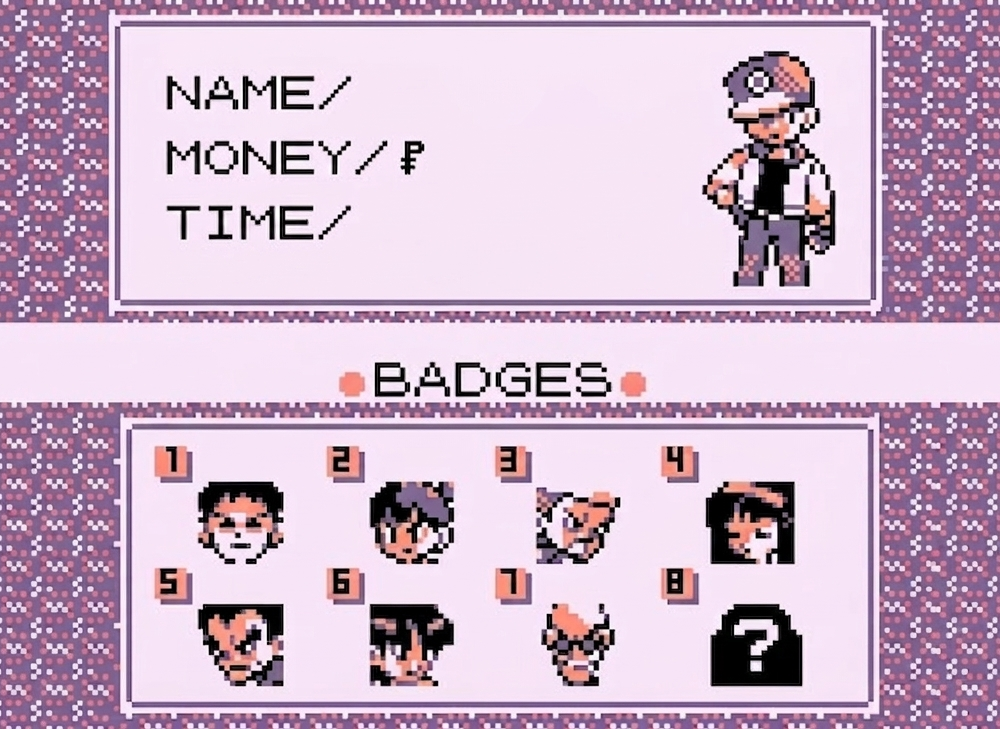
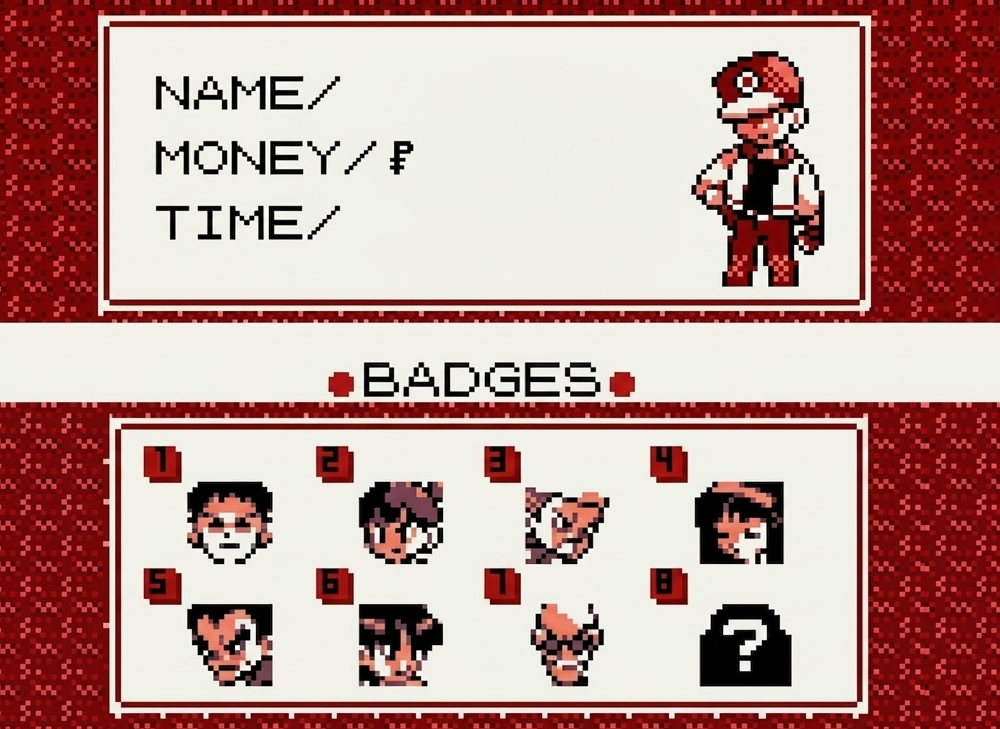
BETA 0.2
FINISHED FEATURES:

-Display Gym Badges
-Calculate Pokédex progress

diff --git a/src/save_decoder.js b/src/save_decoder.js
@@ -24,6 +24,7 @@ save.addEventListener("change", async(e) =>{
 
 //Funcao que carrega o save
 async function loadSave(event){
+    localStorage.clear();
     const saveFile = event.target.files[0];
 
     if(!saveFile){
@@ -41,25 +42,74 @@ async function loadSave(event){
     const gameTime = readSaveTime(reader, 0x2CED);
     howManyBadges(reader, 0x2602, 8);
     const badgesNum = badgesNames[9];
+    const seenPoke = countBit(reader, 0x25A3, 151);
+    const caughtPoke = countBit(reader, 0x25B6, 151);
 
     console.log(`Nome do Treinador: ${playerName}`);
     console.log(`Nome do Rival: ${rivalName}`);
     console.log(`Total de Insígnias: ${badgesNum}`);
     console.log(`Dinheiro: ${playerMoney}`);
     console.log(`Tempo: ${gameTime}`);
+    console.log(`Pokemons Vistos: ${seenPoke}`);
+    console.log(`Pokemons Capturados: ${caughtPoke}`);
 
     for(let i = 0; i < badgesNum; i++){
         console.log(`${i + 1}º Insíginia: ${badgesNames[i]}`);
     }
 
+    for(let i = 0; i < 8; i++){
+        let block = document.getElementById(`block_${i + 1}`);
+        block.style.setProperty('--hover','#B71C1C')
+        removeAnimations();
+    }
+
+    for(let i = 0; i < badgesNum; i++){
+        if(badgesNum == 8){
+            completeBadgesAnimation();
+        }
+        let block = document.getElementById(`block_${i + 1}`);
+        block.style.setProperty('--hover','#ffc60a');
+    }
+
     const trainerName = document.getElementById("trainer_name");
     const trainerMoney = document.getElementById("trainer_money");
     const trainerTime = document.getElementById("trainer_time");
+    const trainerSeenPoke = document.getElementById("seen");
+    const trainerOwnPoke = document.getElementById("own");
+    
+    /*trainerSeenPoke.toString();
+    trainerOwnPoke.toString();*/
 
     trainerName.innerHTML = `${playerName}`;
     trainerMoney.innerHTML = `${playerMoney}`;
     trainerTime.innerHTML = `${gameTime}`;
+    trainerSeenPoke.innerHTML = `${seenPoke}`;
+    trainerOwnPoke.innerHTML = `${caughtPoke}`;
 
+    //block.style.opacity = "0%";
+
+}
+
+//
+
+function completeBadgesAnimation() {
+        let card = document.getElementById("trainerCard");
+        let button = document.getElementById("saveImportLabel");
+        let dex_template = document.querySelector(".pokedex_template");
+
+        button.style.setProperty('--hover', '#ffc60a');
+        card.classList.add("show-shadow");
+        dex_template.classList.add("show-shadow");
+}
+
+function removeAnimations(){
+        let card = document.getElementById("trainerCard");
+        let button = document.getElementById("saveImportLabel");
+        let dex_template = document.querySelector(".pokedex_template");
+
+        button.style.setProperty('--hover', '#B71C1C');
+        card.classList.remove("show-shadow");
+        dex_template.classList.remove("show-shadow");
 }
 
 //Funcao que mapeia os caracteres dentro do save
@@ -166,12 +216,26 @@ function readSaveTime(reader, offset){
 
     const hours = (hoursHigh << 8) | hoursLow;
 
-    if (hours <= 9){
-        let time = `0${hours}:${minutes}:${seconds}`;
-        return time;
-    } else{
-        let time = `${hours}:${minutes}:${seconds}`;
-        return time;
-    }
+    const hour = String(hours).padStart(2, '0');
+    const minute = String(minutes).padStart(2, '0');
+    const second = String(seconds).padStart(2, '0');
+
+    let time = `${hour}:${minute}:${second}`;
+    return time;
+}
+
+
+function countBit(reader, offset, length){
+    let count = 0;
     
+    for(let i = 0; i < length; i++){
+        const byte = reader.readByte(offset + Math.floor(i / 8));
+        const bit =  i % 8;
+
+        if((byte & (1 << bit)) !== 0){
+            count++
+        }
+    }
+
+    return count;
 }

diff --git a/src/index.css b/src/index.css
@@ -7,20 +7,22 @@
     --hover: #B71C1C;
     --read-save: #A4C639;
     --text-main: #FFFFFF;
+    --victory: #ffc60a;
 }
 
 body{
     background-color: var(--bg-main);
+    
 }
 
 h1{
     font-size: 50px;
     font-family: var(--font1);
     color: var(--text-main);
+    margin-top: 20px;
 }
 
 .main_container{
-    padding: 50px;
     display: flex;
     flex-direction: column;
     align-items: center;
@@ -33,7 +35,7 @@ h1{
     align-items: center;
     font-size: 80%;
     text-align: center;
-    background-color: var(--btn-card);
+    background-color: var(--hover);
     color: whitesmoke;
     font-family: var(--font2);
     height: 100px;
@@ -60,38 +62,54 @@ h1{
 }
 
 .trainerCardTemplate{
+    position: relative;
     display: flex;
     flex-direction: column;
     align-items: center;
-    box-shadow: 0px 0px 10px 0px var(--hover);
+    box-shadow: 0px 0px 12px 0px var(--hover);
+    transition: box-shadow 1s ease;
     height: 368px;
     width: 500px;
-    
+    gap: 143px;
+}
+
+.trainerCardTemplate.show-shadow {
+    box-shadow: 0px 0px 10px 0px var(--victory);
 }
 
 .trainerCardTemplate img{
-    position: fixed;
+    position: absolute;
     z-index: -1;
     height: 368px;
     width: 500px;
 }
 
+#save_data{
+    position: relative;
+    top: 37px;
+    left: 18px;
+    display: flex;
+    flex-direction: column;
+    gap: 18px;
+}
+
 #trainer_name{
+    position: relative;
     height: 16px;
     width: 184px;
+    top: 2px;
+    left: 0px;
     font-family: var(--font2);
     color: var(--bg-main);
-    line-height: 95px;
-    text-indent: 23px;
 }
 
 #trainer_money{
+    position: relative;
     height: 16px;
     width: 184px;
     font-family: var(--font2);
     color: var(--bg-main);
-    line-height: 128px;
-    text-indent: 58px;
+    left: 42px;
 }
 
 #trainer_time{
@@ -99,6 +117,74 @@ h1{
     width: 184px;
     font-family: var(--font2);
     color: var(--bg-main);
-    line-height: 162px;
-    text-indent: 20px;
+}
+
+#badge_block{
+    width: 304px;
+    height: 120px;
+    display: grid;
+    grid-template-columns:  1fr 1fr 1fr 1fr;
+    grid-template-rows: 1fr 1fr;
+    gap: 12px;
+}
+
+#badge_block li{
+    position: relative;
+    display: flex;
+    list-style: none;
+    align-items: center;
+    justify-content: center;
+    height: 54px;
+    width: 68px;
+    background-color: var(--hover);
+    opacity: 40%;
+    color: var(--btn-card);
+    left: -5px;
+    top: 4px;
+}
+
+.info_container{
+    display: flex;
+    gap: 30px;
+}
+
+.pokedex_template{
+    font-family: var(--font2);
+    height: 244px;
+    width: 271px;
+    box-shadow: 0px 0px 12px 0px var(--hover);
+    transition: box-shadow 1s ease;
+}
+
+.pokedex_template.show-shadow {
+    box-shadow: 0px 0px 10px 0px var(--victory);
+}
+
+.pokedex_template img{
+    z-index: -1;
+    position: absolute;
+    height: 244px;
+    width: 271px;
+    background-color: var(--read-save);
+}
+
+#seened {
+    position: relative;
+    display: flex;
+    height: 16px;
+    width: 50px;
+    flex-direction: column;
+    text-align: end;
+    gap: 28px;
+    top: 50px;
+    left: 206px;
+    font-size: 11px;
+    color: var(--bg-main);
+}
+
+#alert {
+    text-align: center;
+    text-indent: -58px;
+    line-height: 202px;
+    color: var(--bg-main);
 }

diff --git a/src/index.html b/src/index.html
@@ -13,12 +13,34 @@
             <h1>Leitor de Saves</h1>
             <input type="file" id="saveInput" hidden>
             <label for="saveInput" id="saveImportLabel">Carregar Save</label>
-            <div class="save_info">
-                <div class="trainerCardTemplate">
+            <div class="info_container">
+                <div id="trainerCard" class="trainerCardTemplate">
                     <img src="images/trainer_card_template.png" alt="">
-                    <label id="trainer_name">trainerName</label>
-                    <label id="trainer_money">0000</label>
-                    <label id="trainer_time">00:00:00</label>
+                    <div id="save_data">
+                        <label id="trainer_name">trainerName</label>
+                        <label id="trainer_money">0000</label>
+                        <label id="trainer_time">00:00:00</label>
+                    </div>
+                    <div id="badge_block">
+                        <li id="block_1" class="block"></li>
+                        <li id="block_2" class="block"></li>
+                        <li id="block_3" class="block"></li>
+                        <li id="block_4" class="block"></li>
+                        <li id="block_5" class="block"></li>
+                        <li id="block_6" class="block"></li>
+                        <li id="block_7" class="block"></li>
+                        <li id="block_8" class="block"></li>
+                    </div>
+                </div>
+                <div class="pokedex_template">
+                    <img src="images/pokedex_template.webp" alt="">
+                    <div id="dex_data">
+                        <div id="seened">
+                            <label id="seen">0</label>
+                            <label id="own">0</label>
+                        </div>
+                        <div id="alert">Em Breve!</div>
+                    </div>
                 </div>
             </div>
     </div>

diff --git a/README.md b/README.md
@@ -16,8 +16,8 @@ This project focuses on low-level data parsing and reverse engineering concepts 
 
 - Upload and read `.sav` files directly in the browser
 - Decode Trainer and Rival names
-- Display Gym Badges (bit flags) (only in console for now)
-- Calculate Pokédex progress (seen / caught) (in progress)
+- Display Gym Badges (bit flags) !NEW ✨
+- Calculate Pokédex progress !NEW ✨ (More deployments in future)
 - Decode play time (multi-byte values)
 - Decode money using BCD format
 
@@ -37,13 +37,13 @@ Core techniques used:
 
 ---
 
-## 📊 Example Output
-Trainer: RED
-Rival: BLUE
-Badges: 5/8
-Play Time: 123:45:12
-Money: ₽123456
+## 📊 Example Console Output
 
+Trainer Name: RED
+Rival Name: BLUE
+Badges Total: 5/8
+Money: ₽123456
+Play Time: 123:45:12
 
 ---
 
@@ -73,3 +73,9 @@ Pokémon is a property of Nintendo, Game Freak, and The Pokémon Company.
 ## 📖 Data Used For Developing
 
 - https://bulbapedia.bulbagarden.net/wiki/Save_data_structure_(Generation_I)#bank1_main_playtm
+
+---
+
+## 🎮 You can see in action here:
+
+- https://catchallproject.github.io/catch/src/index.html
